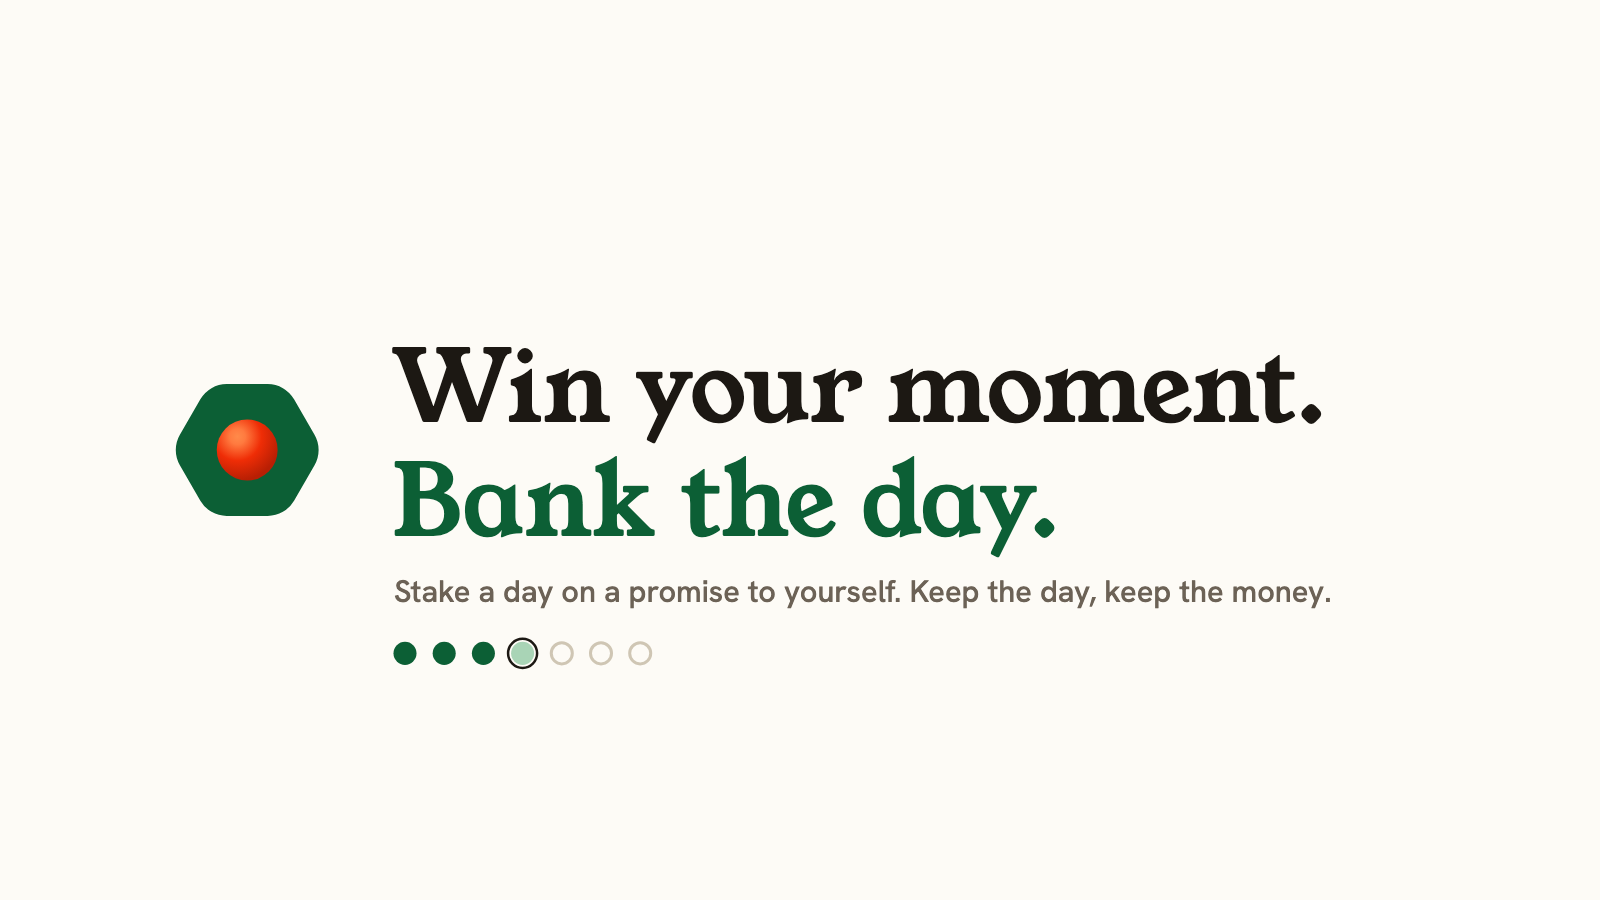
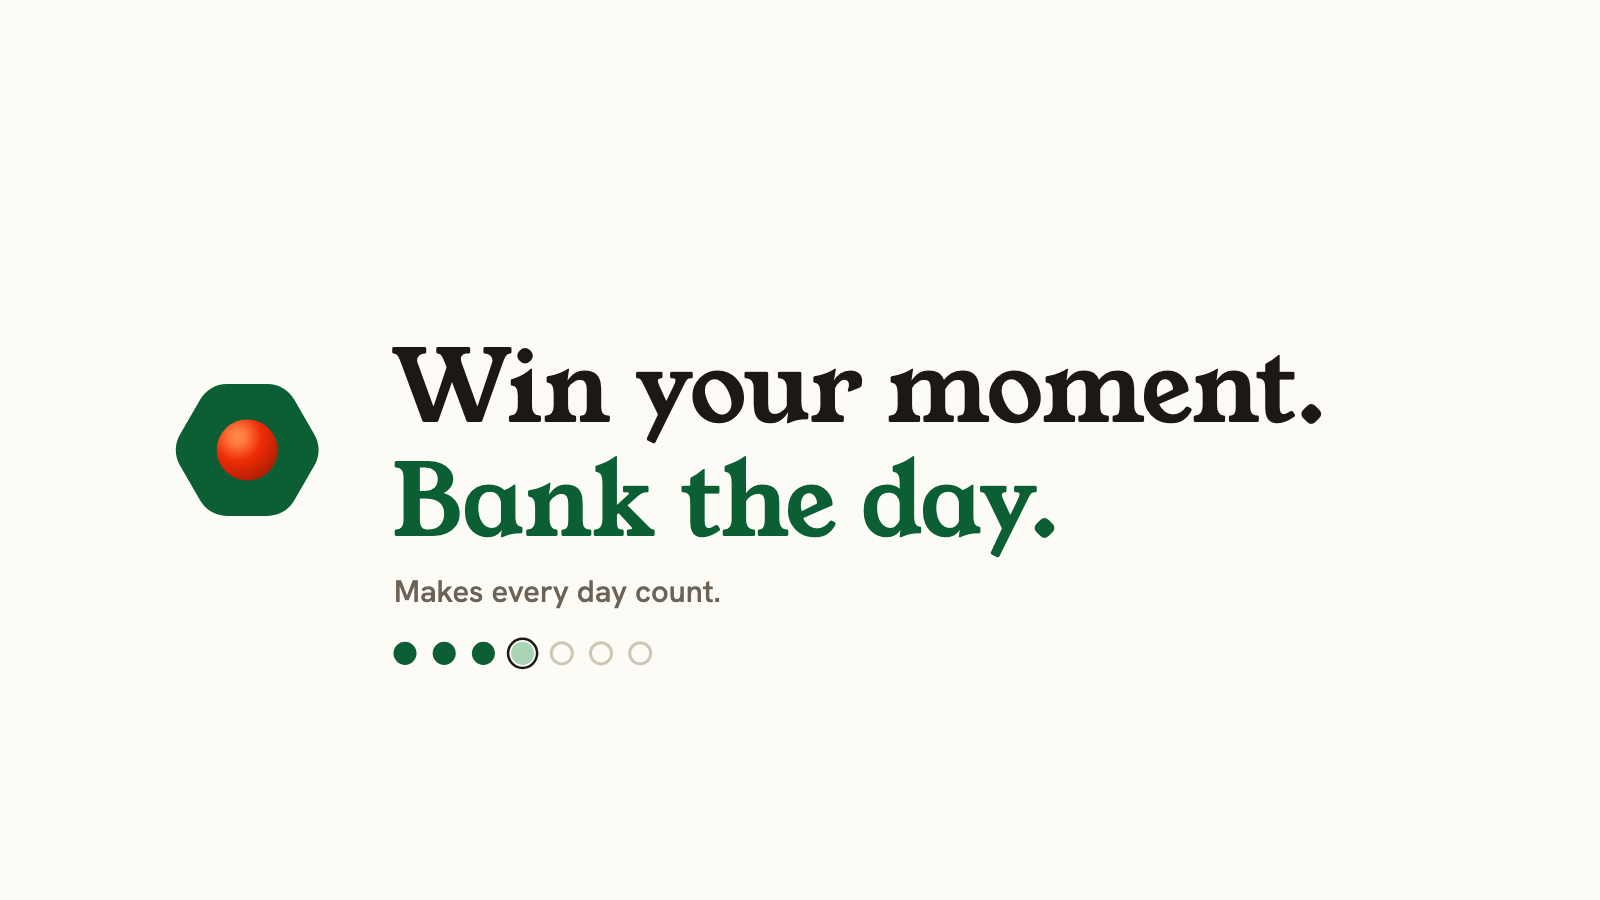
brand: signature line "Stakes. Makes every day count." (retire old subline/tagline)
Claim beats unchanged (Win your moment. Bank the day.). The signature/tagline is now
"Stakes. Makes every day count." — the trailing period is the wordmark's bead, no dash.
- index.html: <title>, og:title -> "Stakes. Makes every day count."; meta description refreshed
- brand.ts: tagline + deckLines; apply.ts joins title with ". " not " - "
- public/brand/stakes-banner*.png: regenerated with the new banner subline "Makes every day count."

Claude-Session: https://claude.ai/code/session_01H69h7ahsm7NcbKVEbcH7E7

Changed region(s): [[0.25, 0.6533, 0.8438, 0.6844]]

diff --git a/index.html b/index.html
@@ -17,11 +17,11 @@
       href="https://fonts.googleapis.com/css2?family=Young+Serif&family=Hanken+Grotesk:wght@400;500;600;700;800&family=Mulish:wght@600;700;800&display=swap"
       rel="stylesheet"
     />
-    <title>Stakes — Stake a day. Keep it, keep the money.</title>
-    <meta name="description" content="Stake a day on a promise to yourself. Keep the day, keep the money. Kept honest by friends, not surveillance." />
+    <title>Stakes. Makes every day count.</title>
+    <meta name="description" content="Win your moment. Bank the day. Makes every day count. Kept honest by friends, not surveillance." />
     <meta property="og:type" content="website" />
     <meta property="og:url" content="https://stakes.surfstyk.com/" />
-    <meta property="og:title" content="Stakes — Stake a day. Keep it, keep the money." />
+    <meta property="og:title" content="Stakes. Makes every day count." />
     <meta property="og:description" content="Win your moment. Bank the day. Kept honest by friends, not surveillance." />
     <meta property="og:image" content="https://stakes.surfstyk.com/brand/stakes-banner-16x9.png" />
     <meta property="og:image:width" content="1600" />

diff --git a/src/brand/brand.ts b/src/brand/brand.ts
@@ -7,7 +7,7 @@
 export interface Brand {
   /** product name — wordmark, card branding, share text, document title */
   name: string
-  /** completes "<name> — <tagline>" in the document title */
+  /** completes "<name>. <tagline>" in the document title (e.g. "Stakes. Makes every day count.") */
   tagline: string
   /** the wordmark shows the name preceded by an accent dot when true */
   hasDot: boolean
@@ -17,12 +17,11 @@ export interface Brand {
 
 export const brand: Brand = {
   name: 'Stakes',
-  tagline: 'Stake a day. Keep it, keep the money.',
+  tagline: 'Makes every day count.',
   hasDot: true,
   deckLines: [
     'Win your moment. Bank the day.',
-    'Stake a day on a promise to yourself.',
-    'Keep the day, keep the money.',
+    'Makes every day count.',
     'The money is at risk, not up for grabs.',
     'Kept honest by friends, not surveillance.',
   ],

diff --git a/src/brand/apply.ts b/src/brand/apply.ts
@@ -44,5 +44,6 @@ export function applyBrand() {
   set('--shadow-card', theme.shadow.card)
   set('--shadow-pop', theme.shadow.pop)
 
-  document.title = `${brand.name} — ${brand.tagline}`
+  // "Stakes. Makes every day count." — the trailing period is the wordmark's bead; no dash.
+  document.title = `${brand.name}. ${brand.tagline}`
 }
